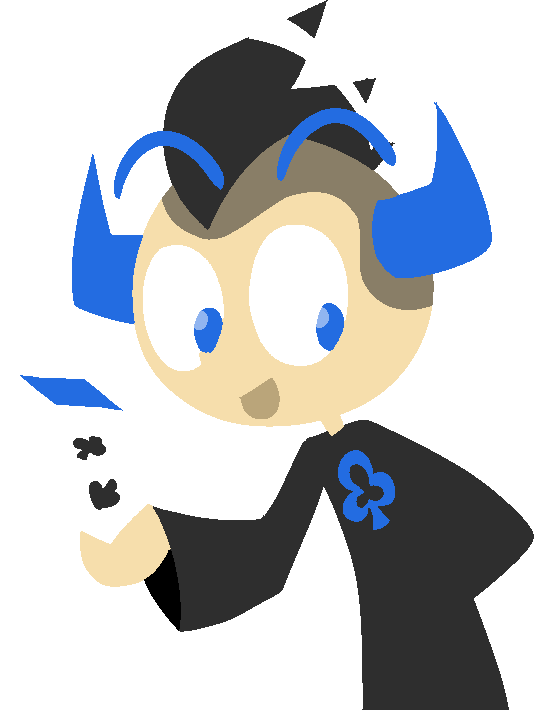
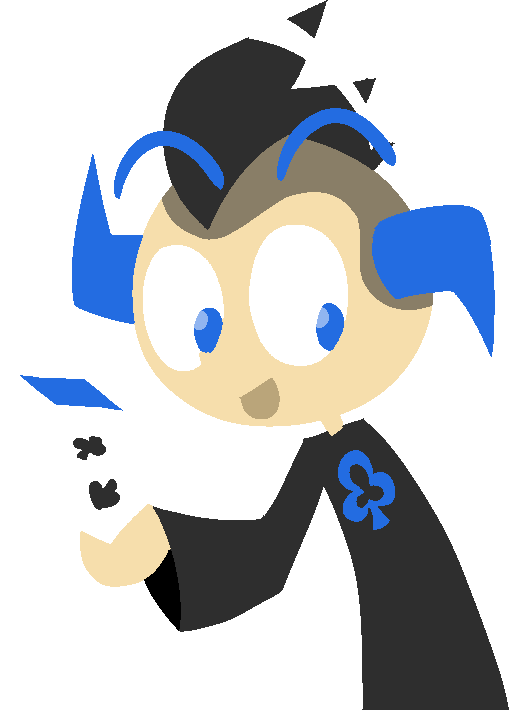
add img

diff --git a/tir/changelog/changelog.md b/tir/changelog/changelog.md
@@ -8,6 +8,12 @@ eleventyNavigation:
 titlezh: 更新日志
 ---
 
+## 2025-03-08
+
+- Happy Women's Day!
+- Added `pumpkin profile.png`, `paperweight profile.png`.
+- Fixed Sky's horns in `sky lineless.png` and `cms friends lineless.png`. That was awkward. It's always awkward when you draw your own characters wrong and go for ages without realizing.
+
 ## 2025-03-07
 
 - Edited [A Nuke from Moreland](/stories/a-nuke-from-moreland/), [New Year 2032](/stories/new-year-2032/).
